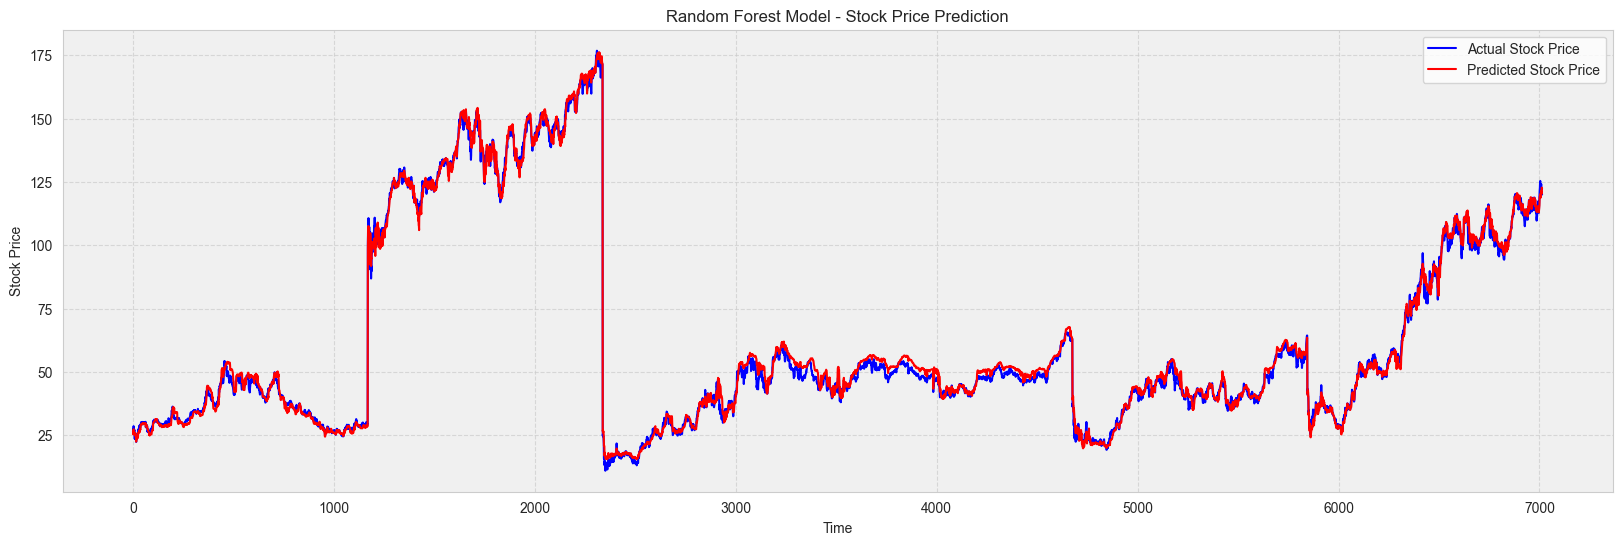
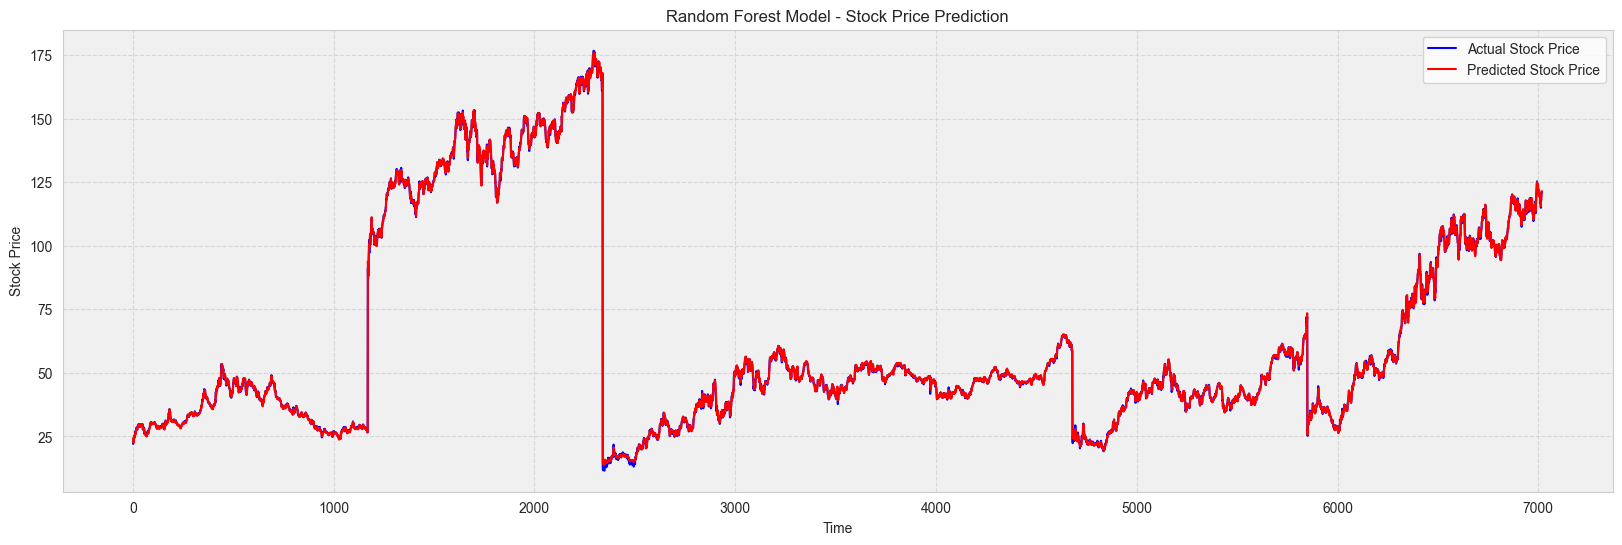
adding the short term features to the feature columns and generating the new evaulation_df

diff --git a/Pages/Project.py b/Pages/Project.py
@@ -661,28 +661,35 @@ with st.container(border=True):
     ''')
 
     st.code('''
-            # Prepare the data for RandomForestRegressor
-    # Split data into train and test sets
-    train, test = train_test_split(data, test_size=0.2, shuffle=False)
+        # Prepare the data for RandomForestRegressor
+        # Load data
+        data = pd.read_csv('stock_data.csv', index_col='Date', parse_dates=True)
 
-    # Define feature columns
-    feature_columns = [
-        'Daily_Return', 'Volatility', 'Z_Score_ACP', 'Z_Score_Volume',
-        'RM_30', 'RSTD_30', 'BB_upper_30', 'BB_lower_30',
-        'RM_60', 'RSTD_60', 'BB_upper_60', 'BB_lower_60',
-        'RM_90', 'RSTD_90', 'BB_upper_90', 'BB_lower_90',
-        'RSI_30', 'RSI_60', 'RSI_90'
-    ]
+        # Split data into train and test sets
+        train, test = train_test_split(data, test_size=0.2, shuffle=False)
 
-    # Define the target column
-    target_column = 'Adj Close'
+        # Define feature columns
+        feature_columns = [
+            'Daily_Return', 'Volatility_5', 'Volatility_15', 'Volatility_30', 'Z_Score_ACP', 'Z_Score_Volume',
+            'RM_5', 'RSTD_5', 'BB_upper_5', 'BB_lower_5',
+            'RM_10', 'RSTD_10', 'BB_upper_10', 'BB_lower_10',
+            'RM_15', 'RSTD_15', 'BB_upper_15', 'BB_lower_15',
+            'RSI_5', 'RSI_10', 'RSI_15',
+            'RM_30', 'RSTD_30', 'BB_upper_30', 'BB_lower_30',
+            'RM_60', 'RSTD_60', 'BB_upper_60', 'BB_lower_60',
+            'RM_90', 'RSTD_90', 'BB_upper_90', 'BB_lower_90',
+            'RSI_30', 'RSI_60', 'RSI_90'
+        ]
 
-    # Train and test splits
-    X_train = train[feature_columns]
-    y_train = train[target_column]
+        # Define the target column
+        target_column = 'Adj Close'
 
-    X_test = test[feature_columns]
-    y_test = test[target_column]
+        # Train and test splits (assuming you've already done this)
+        X_train = train[feature_columns]
+        y_train = train[target_column]
+
+        X_test = test[feature_columns]
+        y_test = test[target_column]
     ''')
 
     st.markdown('''
